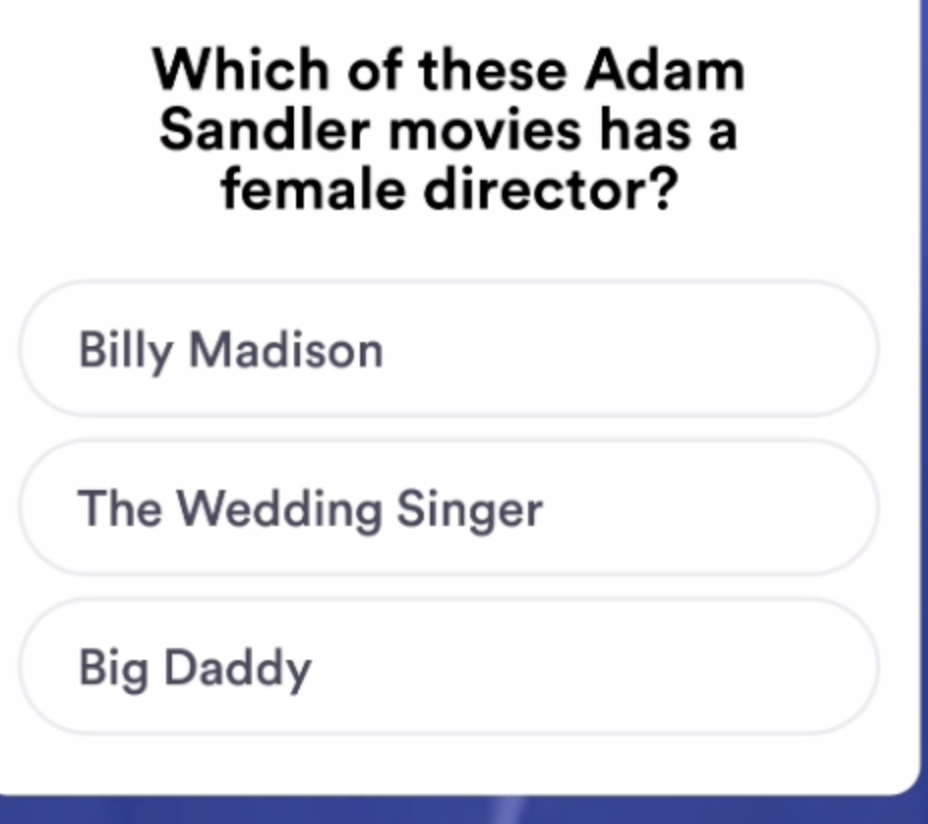
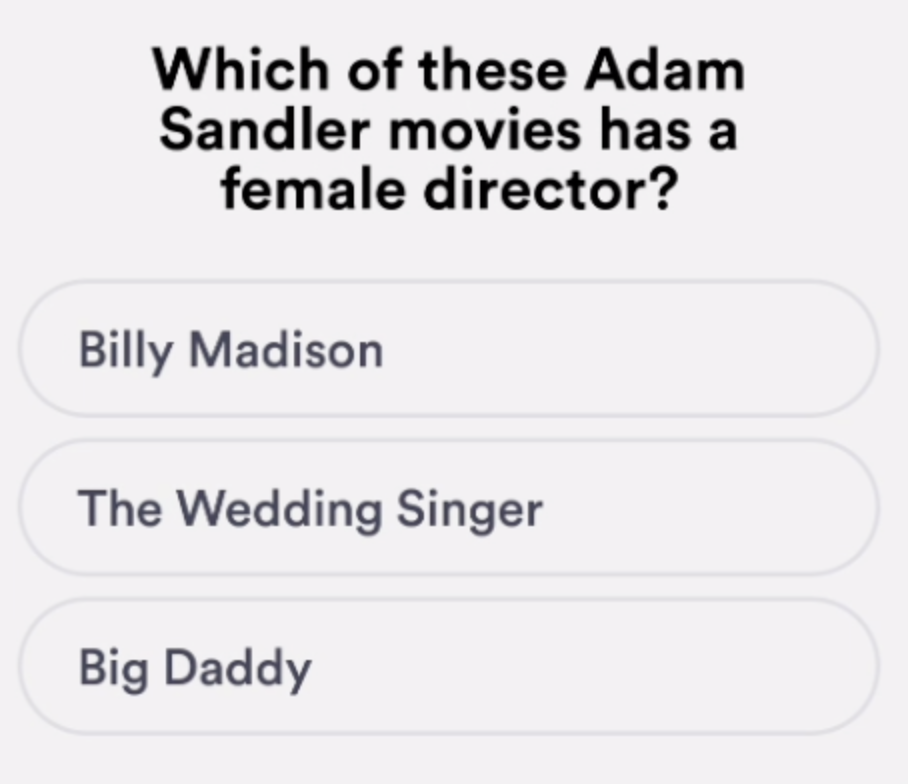
Optimize screenshot

diff --git a/answer_bot.py b/answer_bot.py
@@ -24,8 +24,8 @@ def load_json():
 
 # take screenshot of question 
 def screen_grab(to_save):
-	# 31,228 495,655 co-ords of screenshot// left side of screen
-	im = Imagegrab.grab(bbox=(31,228,495,640))
+	# 31,228 485,620 co-ords of screenshot// left side of screen
+	im = Imagegrab.grab(bbox=(31,228,485,620))
 	im.save(to_save)
 
 # get OCR text //questions and options
